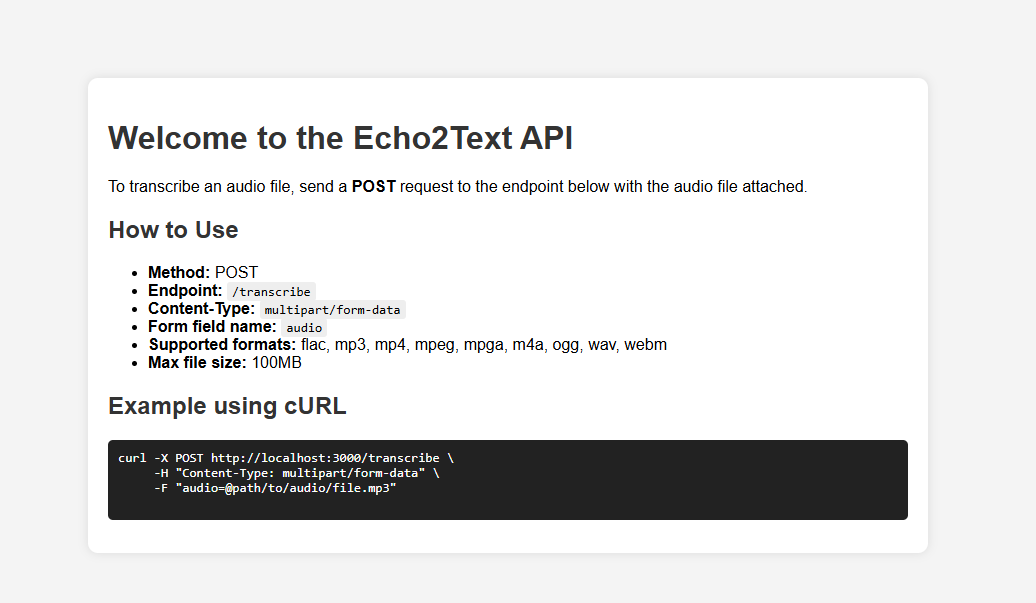
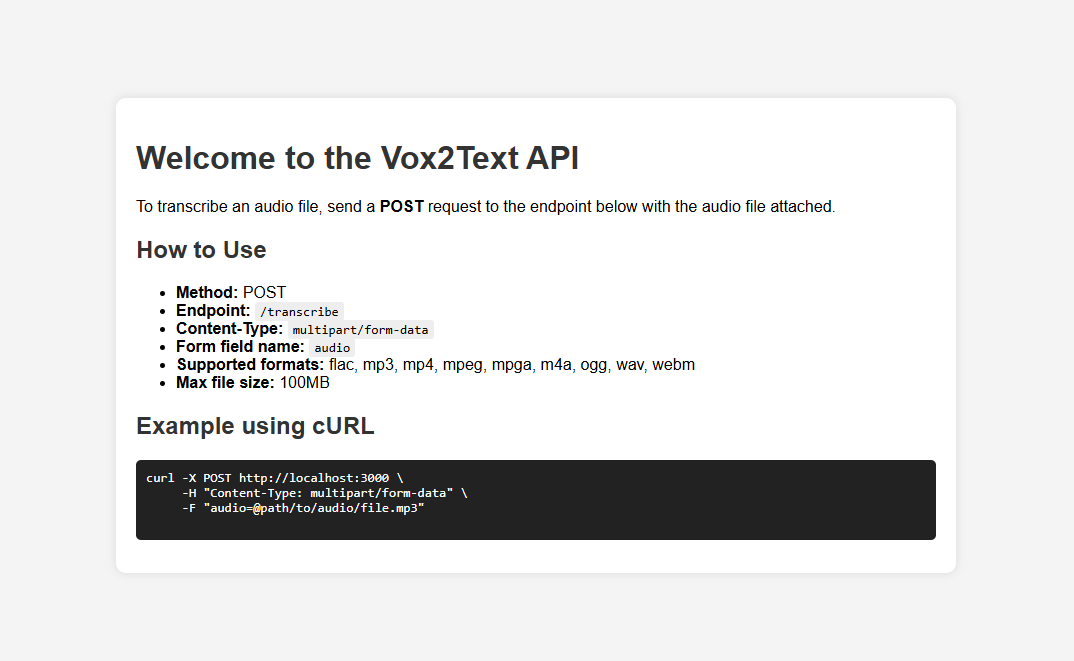
Rebranding

Changed region(s): [[0.0927, 0.3582, 0.8958, 0.8657], [0.0927, 0.209, 0.556, 0.2687], [0.0927, 0.2985, 0.7722, 0.3284]]

diff --git a/app/view/index.html b/app/view/index.html
@@ -4,7 +4,7 @@
 <head>
     <meta charset="UTF-8">
     <meta name="viewport" content="width=device-width, initial-scale=1.0">
-    <title>Echo2Text - Documentation</title>
+    <title>Vox2Text - Documentation</title>
     <style>
         body {
             font-family: Arial, sans-serif;
@@ -50,7 +50,7 @@
 
 <body>
     <div class="container">
-        <h1>Welcome to the Echo2Text API</h1>
+        <h1>Welcome to the Vox2Text API</h1>
         <p>To transcribe an audio file, send a <strong>POST</strong> request to the endpoint below with the audio file
             attached.</p>
 

diff --git a/README.md b/README.md
@@ -1,7 +1,7 @@
-# Echo2Text
+# Vox2Text
 
 <p align="center">
-  <img alt="Echo2Text" src="public/img/homepage.png" width="70%">
+  <img alt="Vox2Text" src="public/img/homepage.png" width="70%">
 </p>
 
 ## Description
@@ -49,7 +49,7 @@ An API to convert speech to text using OpenAI's Whisper model. It allows for fas
 ### Transcription Endpoint
 
 -   **Method:** POST
--   **Route:** `/transcribe`
+-   **Route:** `/`
 -   **Content-Type:** `multipart/form-data`
 -   **Parameter:** `audio` (audio file to be transcribed)
 -   **Supported Formats:** `flac, mp3, mp4, mpeg, mpga, m4a, ogg, wav, webm`
@@ -58,7 +58,7 @@ An API to convert speech to text using OpenAI's Whisper model. It allows for fas
 ### Example Request with cURL
 
 ```sh
-curl -X POST http://localhost:3000/transcribe \
+curl -X POST http://localhost:3000/ \
      -H "Content-Type: multipart/form-data" \
      -F "audio=@path/to/file.mp3"
 ```
